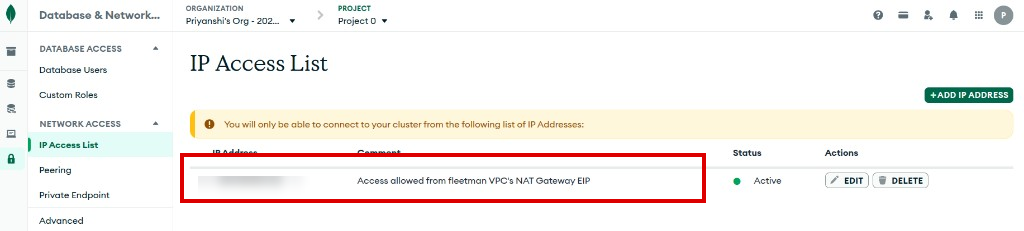
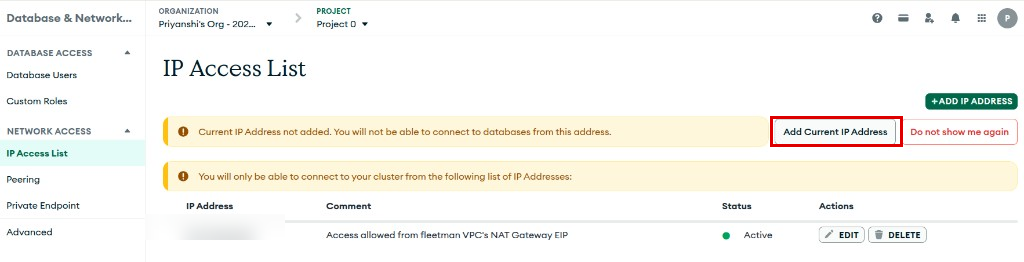
modified

diff --git a/README.md b/README.md
@@ -643,6 +643,10 @@ By adding only this IP to the access list, the Atlas cluster can **only be reach
 
 ![MongoDB Atlas IP Access List — only the fleetman VPC NAT gateway Elastic IP is allowed](docs/images/mongodb-ip-access-list.png)
 
+**Connecting from your own machine (testing/admin):** the list above only allows the cluster's NAT IP, so your laptop can't connect by default. To connect from where you are now, open **Network Access → IP Access List** and click **"Add Current IP Address"** (highlighted above) — Atlas adds your current public IP to the allowlist.
+
+**Giving developers access:** to let developers connect to Atlas from their own machines, add their IPs to the same list. If your team uses an **office VPN**, just allowlist the **office/VPN egress IP** once — then anyone on the VPN can reach Atlas, without adding each developer's IP individually.
+
 ---
 
 # Deploying EKS cluster